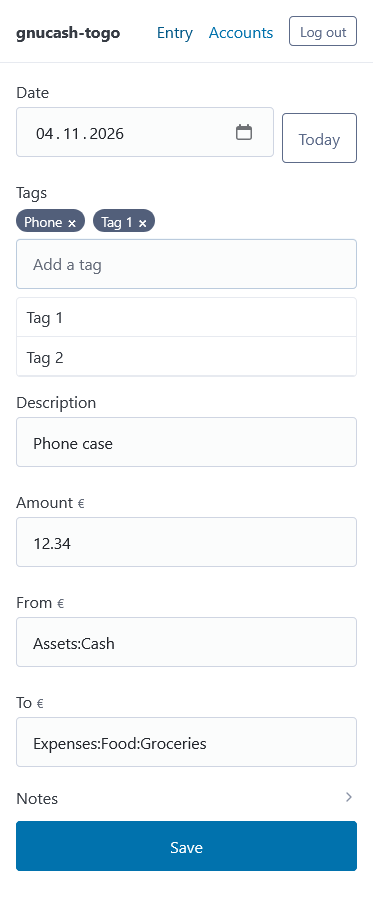
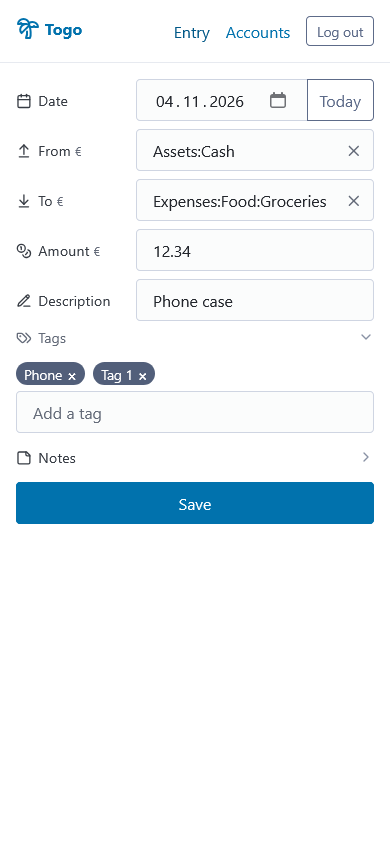
Togo - Clear button in account boxes (#6)
* Togo - Clear button in account boxes

A × at the end of the from and to boxes empties the box and un-picks the
account, whether the box has the focus or not. A focused box keeps the
focus and the keyboard; an unfocused one does not take it.

* Togo - Retake README screenshots

The entry form, account tree and Cash register as they look now: one-row
fields with icons, the × in the account boxes, the palm-tree brand. Same
sample book and "today" (2026-11-04) as before, Firefox at 390 px.

---------

diff --git a/gnucash-togo/src/main/resources/templates/fragments/entry-form.html b/gnucash-togo/src/main/resources/templates/fragments/entry-form.html
@@ -114,17 +114,22 @@
 <!--/*
   One account picker: a search box, the picked GUID, and its suggestions. Only a picked account stays: typing
   un-picks, and leaving the picker with nothing picked empties the box (entry-form.js). The box's id lets htmx
-  give the focus back after a pick swaps the form.
+  give the focus back after a pick swaps the form. The × empties the box, focused or not; it shows only while the
+  box holds text (app.css) and stays out of the Tab order, as the operator strip does.
 */-->
 <div th:fragment="picker(field, guid, label, currency)" class="field picker" data-account-picker
      hx-get="/suggest/none" hx-trigger="focusout delay:300ms" hx-swap="innerHTML" th:hx-target="'#' + ${field} + '-suggestions'">
     <label th:for="|${field}-label|"><svg th:replace="~{fragments/icon :: icon(${field == 'from'} ? 'arrow-up-from-line' : 'arrow-down-to-line')}"></svg><span
             th:text="#{${'entry.' + field}}">From</span> <small class="muted" th:text="${currency}">€</small></label>
-    <input th:id="|${field}-label|" th:name="|${field}Label|" autocomplete="off" th:value="${label}" th:placeholder="#{entry.account.placeholder}"
-           data-enter="next" enterkeyhint="next"
-           th:aria-invalid="${errors.containsKey(field)} ? 'true'"
-           th:hx-get="@{/suggest/accounts(field=${field})}" hx-trigger="input changed delay:250ms, focus"
-           th:hx-target="'#' + ${field} + '-suggestions'" hx-swap="innerHTML" th:hx-include="'#' + ${field} + '-guid'">
+    <div class="box">
+        <input th:id="|${field}-label|" th:name="|${field}Label|" autocomplete="off" th:value="${label}" th:placeholder="#{entry.account.placeholder}"
+               data-enter="next" enterkeyhint="next"
+               th:aria-invalid="${errors.containsKey(field)} ? 'true'"
+               th:hx-get="@{/suggest/accounts(field=${field})}" hx-trigger="input changed delay:250ms, focus"
+               th:hx-target="'#' + ${field} + '-suggestions'" hx-swap="innerHTML" th:hx-include="'#' + ${field} + '-guid'">
+        <button type="button" class="clear" tabindex="-1" data-clear-account th:aria-label="#{entry.account.clear}"><svg
+                th:replace="~{fragments/icon :: icon('x')}"></svg></button>
+    </div>
     <input type="hidden" th:id="|${field}-guid|" th:name="${field}" th:value="${guid}">
     <ul class="suggestions" th:id="|${field}-suggestions|"></ul>
     <small class="field-error" th:if="${errors.containsKey(field)}" th:text="#{${errors.get(field)}}">Pick an account.</small>

diff --git a/gnucash-togo/src/main/resources/static/js/entry-form.js b/gnucash-togo/src/main/resources/static/js/entry-form.js
@@ -4,7 +4,7 @@
 // visible field instead of saving; Enter on the description saves as usual. Picking an account moves on the same way.
 //
 // An account box keeps only an account picked from its list: Enter takes the first suggestion, and typed text that
-// was never picked is emptied on leaving. The next box opens its list as soon as it gets the focus.
+// was never picked is emptied on leaving. The next box opens its list as soon as it gets the focus. Its × empties it.
 //
 // The amount is typed as on a card terminal: digits only, the point stays data-decimals places from the right,
 // so 1, 2, 3 shows 0.01, 0.12, 1.23; Backspace takes the last digit off again. It also takes GnuCash's calculator
@@ -164,6 +164,23 @@
         const picker = pick.closest('[data-account-picker]');
         guid(picker).value = pick.value.split(':')[1]; // picked: leaving the box must not empty it
         next(box(picker))?.focus();
+    });
+
+    // The × in an account box empties it and un-picks. Its pointerdown is cancelled, as on the operator strip, so a
+    // focused box keeps the focus and the keyboard, and lists the recent accounts again as an empty box does. A box
+    // without the focus is only emptied: it doesn't take the focus, so no keyboard pops up.
+    document.addEventListener('pointerdown', e => {
+        if (e.target.closest('[data-clear-account]')) e.preventDefault();
+    });
+
+    document.addEventListener('click', e => {
+        const clear = e.target.closest('[data-clear-account]');
+        if (!clear) return;
+        const picker = clear.closest('[data-account-picker]');
+        const field = box(picker);
+        field.value = '';
+        guid(picker).value = '';
+        if (document.activeElement === field) field.dispatchEvent(new Event('input', {bubbles: true}));
     });
 
     document.addEventListener('keydown', e => {

diff --git a/gnucash-togo/src/main/resources/static/css/app.css b/gnucash-togo/src/main/resources/static/css/app.css
@@ -108,6 +108,14 @@ a.item:active { background: var(--pico-secondary-background); }
 .suggestions button { all: unset; box-sizing: border-box; display: block; width: 100%; padding: .45rem .6rem; cursor: pointer;
                       border-bottom: 1px solid var(--pico-muted-border-color); }
 .suggestions button:hover, .suggestions button:focus { background: var(--pico-secondary-background); color: var(--pico-secondary-inverse); }
+/* account box: the × sits inside the box at its right end, shown only while the box holds text */
+.picker .box { position: relative; }
+.picker .box input { padding-right: 2.5rem; }
+.picker .clear { all: unset; position: absolute; top: 0; right: 0; bottom: 0; width: 2.5rem; display: flex;
+                 align-items: center; justify-content: center; cursor: pointer; color: var(--pico-muted-color);
+                 touch-action: manipulation; }
+.picker .clear .icon { margin: 0; }
+.picker .box input:placeholder-shown + .clear { display: none; }
 .chips { display: flex; flex-wrap: wrap; gap: .3rem; align-items: center; margin-bottom: .4rem; }
 .chips:empty { display: none; }
 .chips .chip { font-size: .85rem; padding: .2rem .5rem; }

diff --git a/gnucash-togo/src/test/java/org/duckdns/gory26/gnucash/togo/web/EntryTest.java b/gnucash-togo/src/test/java/org/duckdns/gory26/gnucash/togo/web/EntryTest.java
@@ -256,6 +256,15 @@ class EntryTest extends AppTest {
                 .contains("<input id=\"to-label\" name=\"toLabel\"");
     }
 
+    /** entry-form.js finds the × by its marker; app.css shows it only right after a box that holds text. */
+    @Test
+    void accountBoxesCarryAClearButtonRightAfterThem() throws Exception {
+        assertThat(page("/")).containsPattern(
+                "<input id=\"from-label\"[^>]*>\\s*<button type=\"button\" class=\"clear\" tabindex=\"-1\" data-clear-account aria-label=\"Clear\">")
+                .containsPattern(
+                "<input id=\"to-label\"[^>]*>\\s*<button type=\"button\" class=\"clear\" tabindex=\"-1\" data-clear-account aria-label=\"Clear\">");
+    }
+
     @Test
     void enterTakesTheFirstAccountTheListOffers() throws Exception {
         String form = fragment(post("/entry/pick").param("first", "to").param("toLabel", "food groc"));

diff --git a/docs/plans/gnucash-togo.md b/docs/plans/gnucash-togo.md
@@ -138,7 +138,7 @@ Decisions from the M4 grilling (2026-11-04) are folded in below.
      - **tag chips**: an input with htmx suggestions from `suggestTags`. Enter, comma or picking a suggestion adds a chip; × removes it; Backspace in an empty input removes the last one. Brackets are refused. Each chip is a hidden `tags` input;
      - description text with htmx autocomplete (`suggestDescriptions`). Picking one quick-fills tags, accounts and amount (`quickFill`);
      - amount (`inputmode=decimal`, parsed by `AmountParser`);
-     - from and to pickers: a search box with htmx suggestions from `suggestAccounts`, matching words anywhere in the full path. Focusing the empty box lists the top recent accounts. Every suggestion list (accounts, descriptions, tags) shows at most 4 items and opens over the fields below it on a dimmed page, so the page keeps its height and the list needs no scroll bar (changed 2026-11-10). Each suggestion shows the full path and currency, and a hidden field carries the GUID. Only a picked account stays: typing un-picks at once, Enter takes the first suggestion, and leaving the picker with nothing picked empties the box. Picking moves the focus to the next field with the keyboard kept up, and the to box opens its list straight away (changed 2026-11-10);
+     - from and to pickers: a search box with htmx suggestions from `suggestAccounts`, matching words anywhere in the full path. Focusing the empty box lists the top recent accounts. Every suggestion list (accounts, descriptions, tags) shows at most 4 items and opens over the fields below it on a dimmed page, so the page keeps its height and the list needs no scroll bar (changed 2026-11-10). Each suggestion shows the full path and currency, and a hidden field carries the GUID. Only a picked account stays: typing un-picks at once, Enter takes the first suggestion, and leaving the picker with nothing picked empties the box. A × at the end of a box that holds text empties it and un-picks, focused or not; a focused box keeps the focus and lists the recent accounts again (added 2026-11-18). Picking moves the focus to the next field with the keyboard kept up, and the to box opens its list straight away (changed 2026-11-10);
      - notes behind a `<details>` disclosure.
 
      After a save, everything except the date clears, and a fading line appears: "Saved: [Tag 1] Rewe · 12.34 € · Cash → Groceries". There is no undo.
